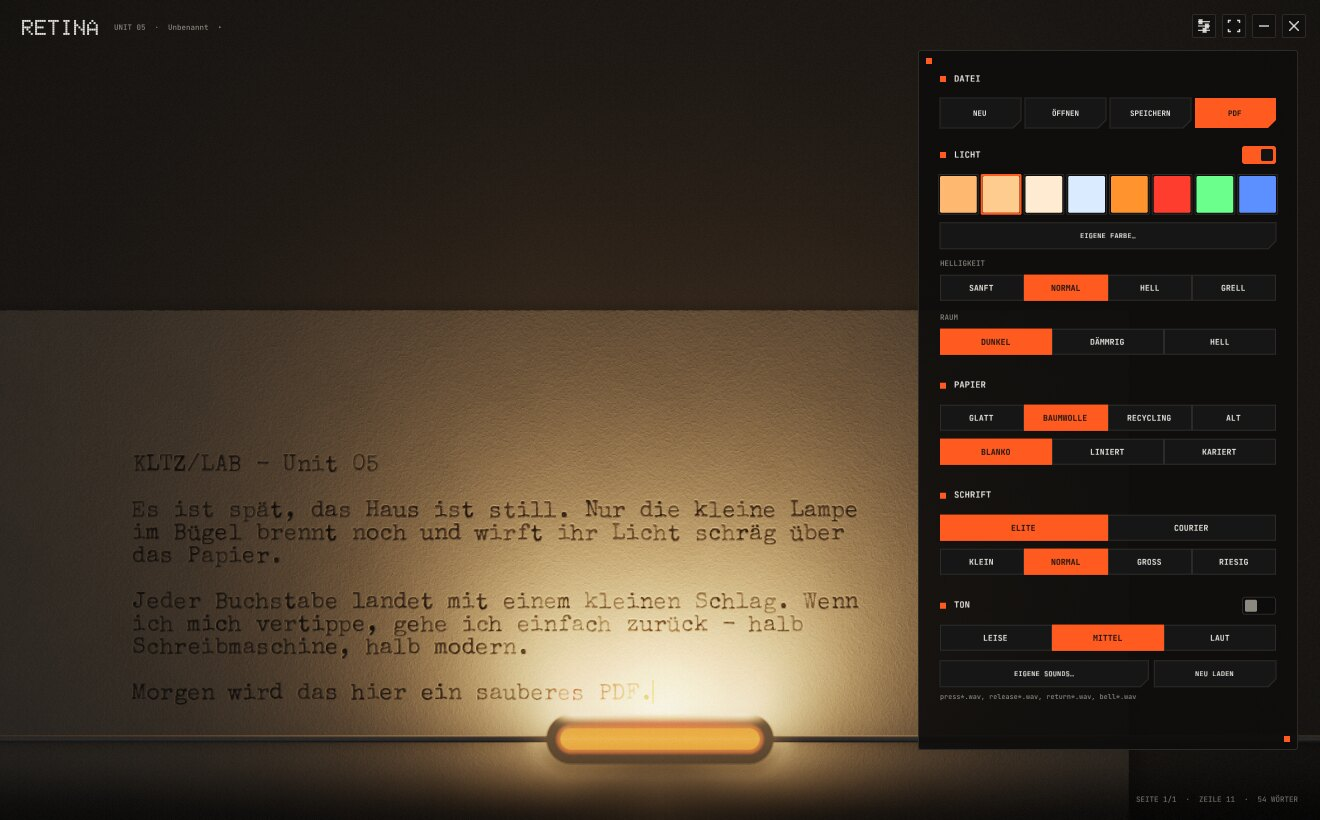
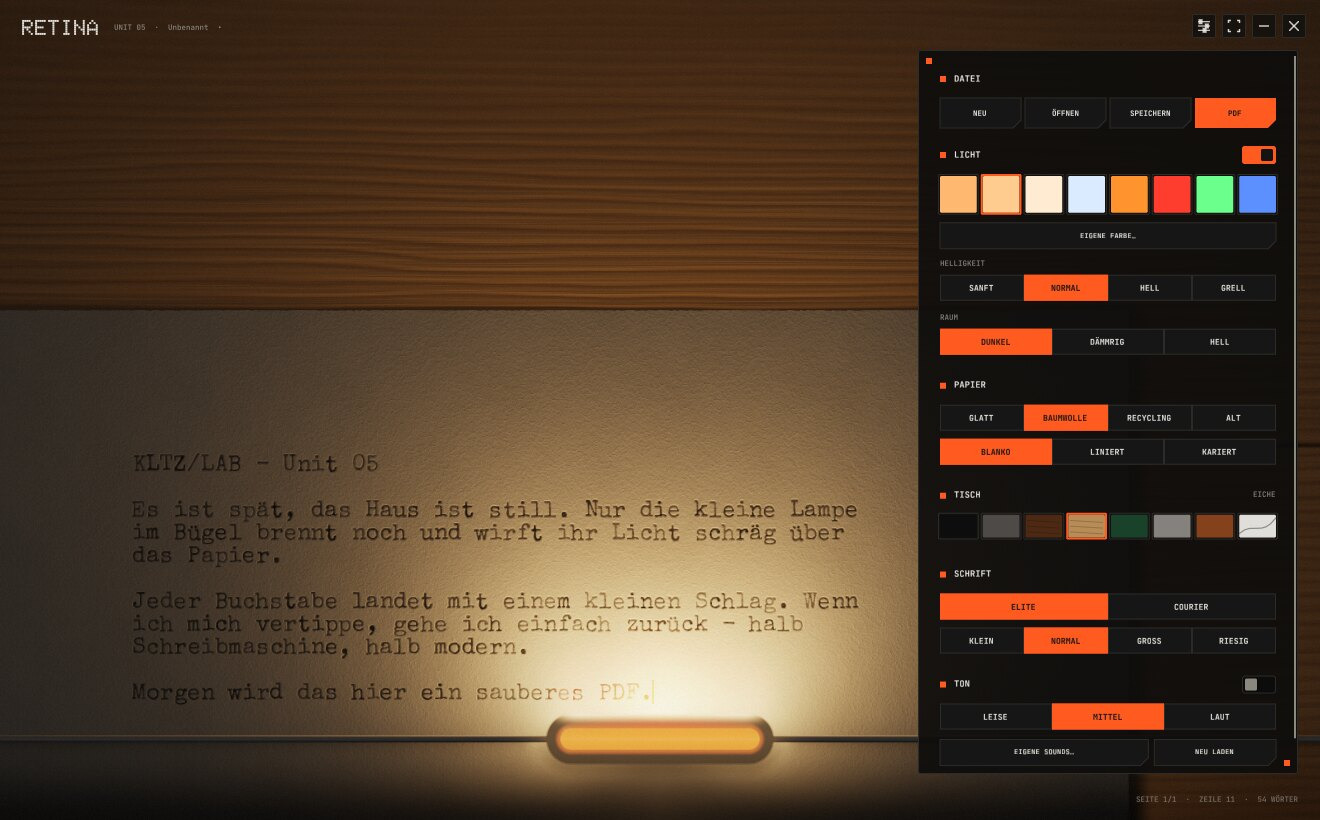
RETINA 0.9.3: table surfaces, no bell, back buffer size fix
Claude-Session: https://claude.ai/code/session_01Jzr5w1iMniMsk85TjXu2Vu

Changed region(s): [[0.0, 0.0, 0.9008, 0.3963], [0.6833, 0.122, 1.0, 1.0], [0.7144, 0.8232, 0.7455, 0.8537]]

diff --git a/index.html b/index.html
@@ -379,7 +379,7 @@ footer p{margin:0 0 6px;max-width:80ch}
       <div class="unit-body">
         <aside class="spec">
           <table>
-            <tr><th>Version</th><td>0.9.2 Beta</td></tr>
+            <tr><th>Version</th><td>0.9.3 Beta</td></tr>
             <tr><th>Größe</th><td>1,2 MB</td></tr>
             <tr><th>System</th><td>Windows 10/11 x64</td></tr>
             <tr><th>Engine</th><td>Nativ C++, DirectX 11</td></tr>
@@ -430,6 +430,7 @@ footer p{margin:0 0 6px;max-width:80ch}
             <tr><th>System</th><td>Windows 10/11 x64</td></tr>
             <tr><th>Engine</th><td>Nativ C++, DirectX 11</td></tr>
             <tr><th>Seite</th><td>A4, Pica 10 cpi, 62 × 58</td></tr>
+            <tr><th>Tisch</th><td>8 Oberflächen, von Nussbaum bis Marmor</td></tr>
             <tr><th>Schrift</th><td>Special Elite, Courier Prime</td></tr>
             <tr><th>Formate</th><td>TXT rein/raus, PDF raus</td></tr>
           </table>
@@ -484,7 +485,7 @@ footer p{margin:0 0 6px;max-width:80ch}
         <div class="note"><h3><span class="sq"></span>LARYNX</h3><p>Leitet deine bearbeitete Stimme an Discord, OBS &amp; Co. weiter. In der App führt „Discord einrichten“ durch die Einstellung, mit „Bypass“ hörst du jederzeit den Vorher-Nachher-Vergleich. Ersetzt SixtyVox: Die alte Version wird beim Installieren entfernt, deine Presets ziehen mit um.</p></div>
         <div class="note"><h3><span class="sq"></span>DIGEST</h3><p>Startet mit deinem Downloads-Ordner und zeigt erst nur eine Vorschau. Doppelte Dateien wandern in einen Quarantäne-Ordner, nicht in den Papierkorb. Alles, was DIGEST verschiebt, kannst du unter VERLAUF wieder an den alten Platz holen.</p></div>
         <div class="note"><h3><span class="sq"></span>SUTURE</h3><p>Zieh deine Aufnahmen ins Fenster, eine Datei pro Person oder alles in einer. SUTURE fasst die Originale nie an, es schreibt nur neue Dateien. Der MP3-Encoder LAME liegt als eigene DLL bei.</p></div>
-        <div class="note"><h3><span class="sq"></span>RETINA</h3><p>Eigene Tasten-Sounds gehen auch: WAV-Dateien mit press… und release… im Namen (dazu return…, bell…) in einen Ordner legen und unter TON auswählen. Die Dateien bleiben bei dir, sie werden nicht mitverteilt.</p></div>
+        <div class="note"><h3><span class="sq"></span>RETINA</h3><p>Eigene Tasten-Sounds gehen auch: WAV-Dateien mit press… und release… im Namen (dazu return… für den Wagenrücklauf) in einen Ordner legen und unter TON auswählen. Die Dateien bleiben bei dir, sie werden nicht mitverteilt.</p></div>
       </div>
     </div>
   </section>
@@ -516,8 +517,8 @@ const TOOLS = [
[1 lines of base64/hex data omitted]
   { id: 'suture', no: '04', name: 'SUTURE', what: 'Podcast-Schnitt', status: 'beta', version: '0.9.2 Beta', tag: 'suture-v0.9.2',
[1 lines of base64/hex data omitted]
-  { id: 'retina', no: '05', name: 'RETINA', what: 'Schreibmaschine', status: 'beta', version: '0.9.2 Beta', tag: 'retina-v0.9.2',
[1 lines of base64/hex data omitted]
+  { id: 'retina', no: '05', name: 'RETINA', what: 'Schreibmaschine', status: 'beta', version: '0.9.3 Beta', tag: 'retina-v0.9.3',
[1 lines of base64/hex data omitted]
   { id: null, no: '06', name: 'NÄCHSTES TOOL', what: 'In Arbeit', status: 'wip' },
 ];
 
@@ -623,10 +624,10 @@ $('#sutureSteps').innerHTML = [
   'Export: MP3 + WAV. Deine Originale bleiben unangetastet, das Projekt merkt sich SUTURE automatisch.',
 ].map((r, i) => `<li><span>${String(i + 1).padStart(2, '0')}</span>${r}</li>`).join('');
 const R_VIEW = {
-  write: ['RETINA beim Schreiben', 'Der Wagen läuft mit: Die Zeile, an der du tippst, steht immer direkt über der Lampe.'],
+  write: ['RETINA beim Schreiben, Nussbaum-Tisch', 'Der Wagen läuft mit: Die Zeile, an der du tippst, steht immer direkt über der Lampe.'],
   panel: ['RETINA, Einstellungen', 'Lichtfarbe, Helligkeit, Raum, Papier, Schrift und Ton. Eigene Anschlag-Sounds kannst du als WAV dazulegen.'],
-  lined: ['RETINA, liniertes Papier, kaltes Licht', 'Glattes Papier, liniert, kaltweißes Licht und ein heller Raum.'],
-  grid: ['RETINA, kariertes Papier, rotes Licht', 'Altes Papier, kariert, rotes Licht. Die Struktur reagiert auf die Lampe.'],
+  lined: ['RETINA, liniertes Papier, kaltes Licht, Beton', 'Glattes Papier, liniert, kaltweißes Licht, heller Raum, Beton-Tisch.'],
+  grid: ['RETINA, kariertes Papier, rotes Licht, schwarzer Tisch', 'Altes Papier, kariert, rotes Licht auf schwarzem Lack. Die Struktur reagiert auf die Lampe.'],
 };
 $('#rViews').addEventListener('click', e => { const b = e.target.closest('button'); if (!b) return;
   const v = b.dataset.v; $('#rShot').src = `img/retina-${v}.jpg`; $('#rShot').alt = R_VIEW[v][0]; $('#rCap').textContent = R_VIEW[v][1];
@@ -640,7 +641,7 @@ $('#retinaSteps').innerHTML = [
   'Papier: glatt, Baumwolle, Recycling oder alt, dazu blanko, liniert oder kariert.',
   'Speichern als TXT. RETINA sichert nebenbei automatisch, nichts geht verloren.',
   'PDF: nur Schrift auf weißem A4, ohne Textur und ohne Licht. Strg + P.',
-  'Glocke kurz vor dem Rand, Wagenrücklauf bei Enter. Strg + Mausrad zoomt, F11 = Vollbild.',
+  'Tisch: Schwarz, Graphit, Nussbaum, Eiche, Filz, Beton, Leder oder Marmor. Strg + Mausrad zoomt, F11 = Vollbild.',
 ].map((r, i) => `<li><span>${String(i + 1).padStart(2, '0')}</span>${r}</li>`).join('');
 
 // LARYNX chain — names, order and texts taken from the app
